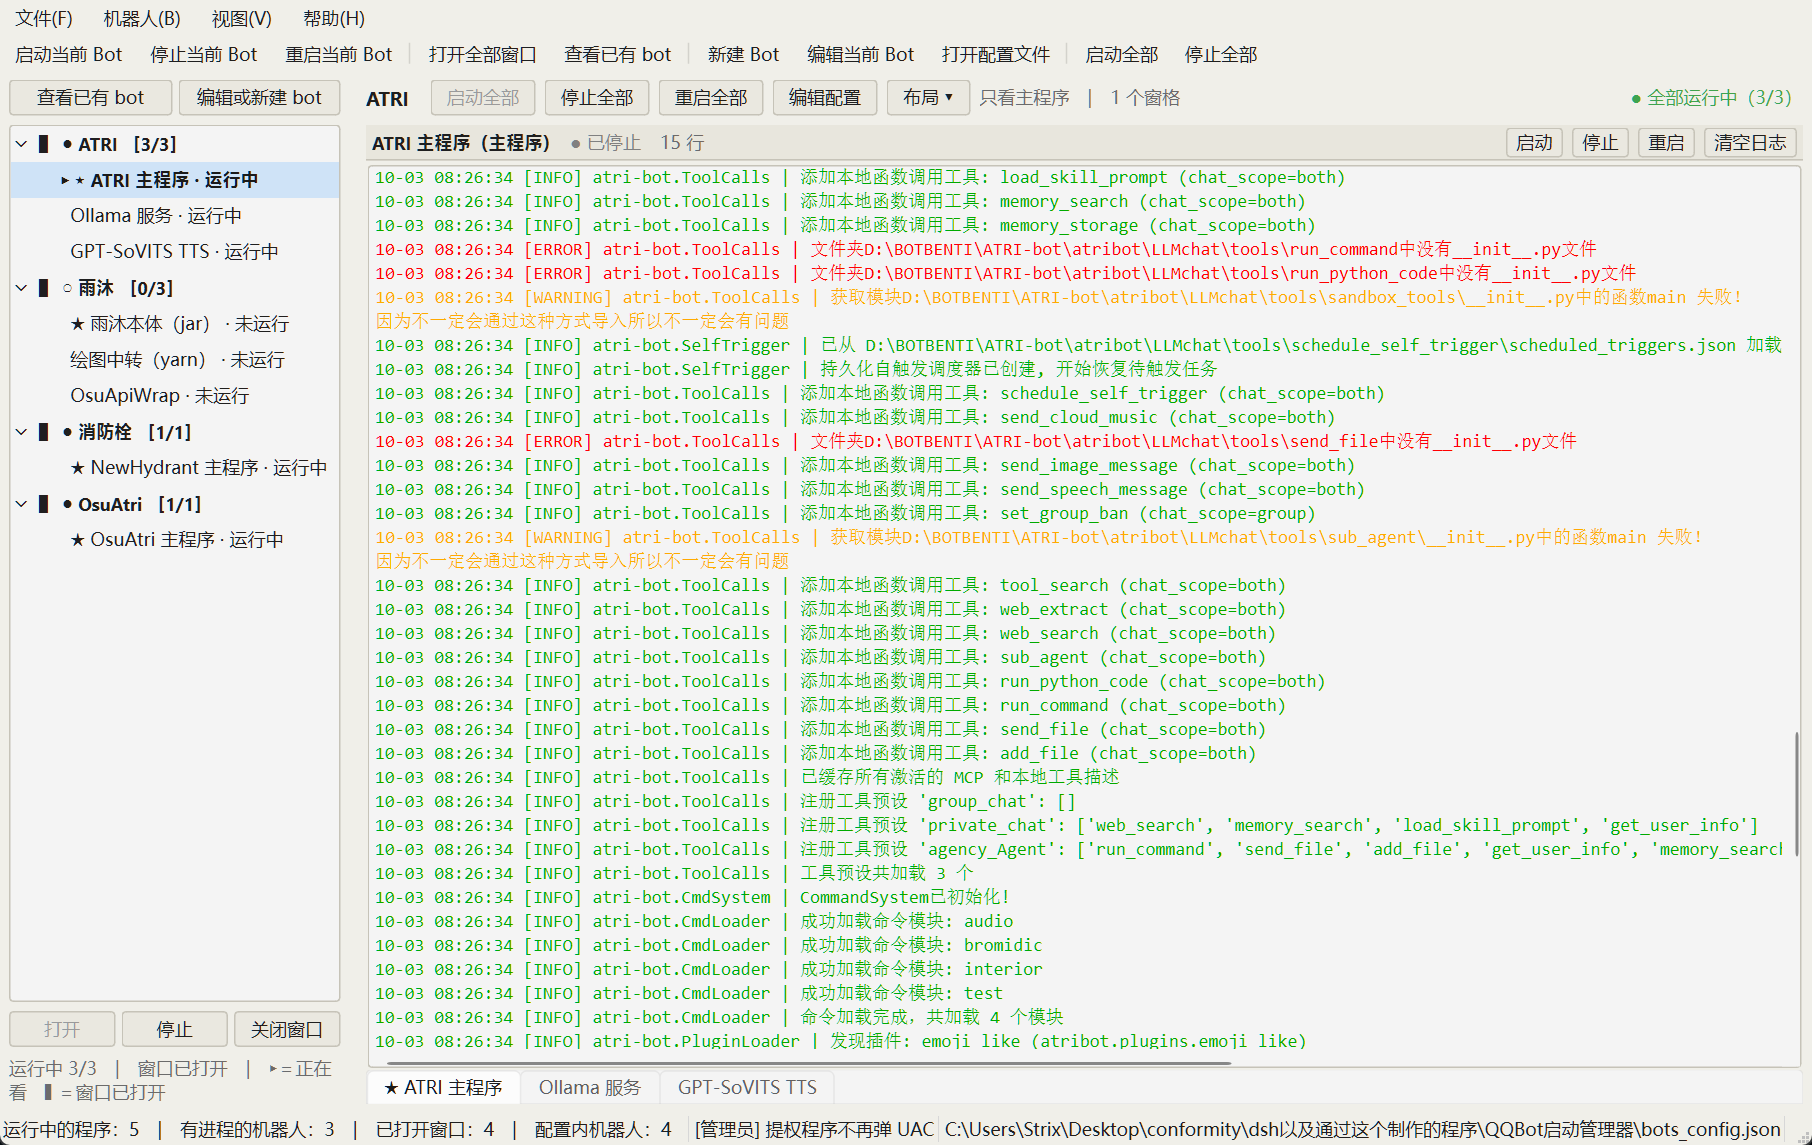
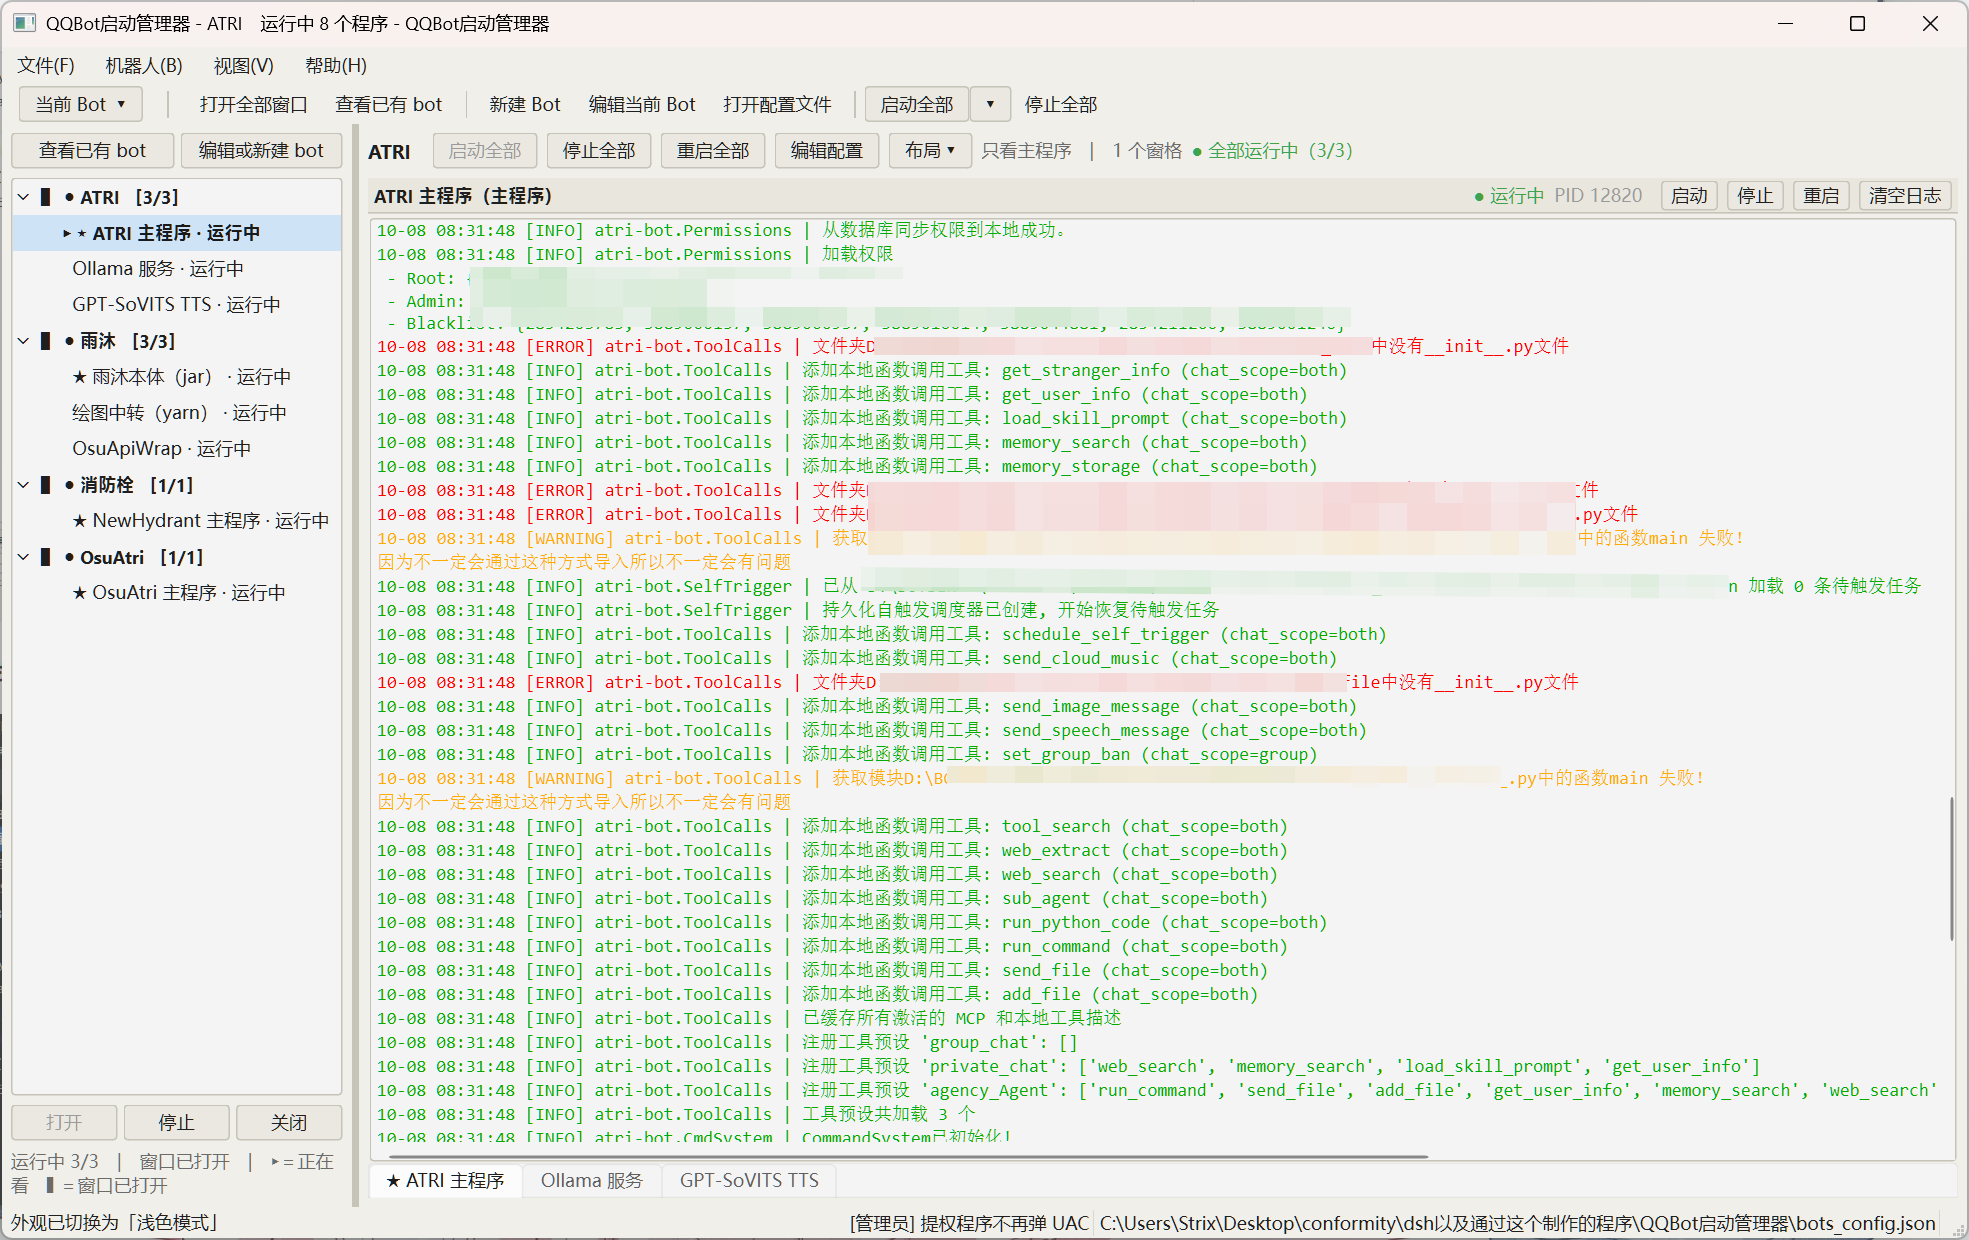
更新界面效果图（浅色 / 深色），并注明截图用的是作者自定义配色
用户提供两张新截图（1969x1240，深浅各一张，均带完整日志与左栏状态）：
- docs/screenshots/main-window-dark.png
- docs/screenshots/main-window-light.png

从图里实测底色：两张的日志区与左栏都是同色
（深色 #1e1f22、浅色 #f4f4f4）—— 说明截图用的是「配色工作台」里调过的
自定义配色，不是内置默认值（默认浅色是 #f0efe9、默认深色窗口是 #2b2b2b）。

因此README 的截图说明补了一句：这两张图展示的是作者自己调的配色，
内置默认值见下方对照表；读者不必以图里的颜色为准（自己也能随时改）。

自检：tools/run_all_checks.py → 通过 28 · 失败 0 · 跳过 3（31 个）；check_doc_links 通过

diff --git a/README.md b/README.md
@@ -121,6 +121,11 @@
 
 > 截图里的机器人名、程序组成、路径都是作者本机的配置，和你的不一样是正常的。
 > 日志区底色实测取色：浅色 `#f0efe9`、深色 `#1e1f22`
+>
+> ⚠ 上面两张截图用的是**作者自己调的配色**（不是内置默认值）：从图里实测，
+> 浅色的日志区 / 左栏底色是 `#f4f4f4`、深色是 `#1e1f22`。
+> 内置默认值见下面的对照表（浅色 `#f0efe9` / 深色窗口 `#2b2b2b`）——
+> 你自己的颜色随时能在「配色工作台」里改成任意值。
 > （浅色下日志底色与窗口底色是**同一个颜色**，这是有意为之、不是漏改 —— 见
 > [深色模式下日志文字是黑的？](#深色模式下日志文字是黑的)）。
 >
